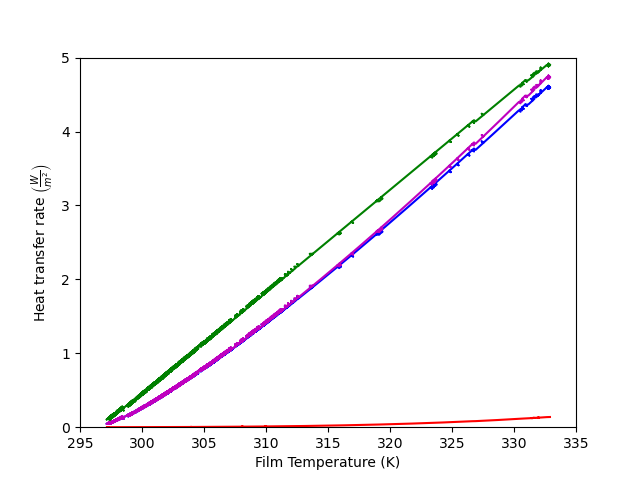
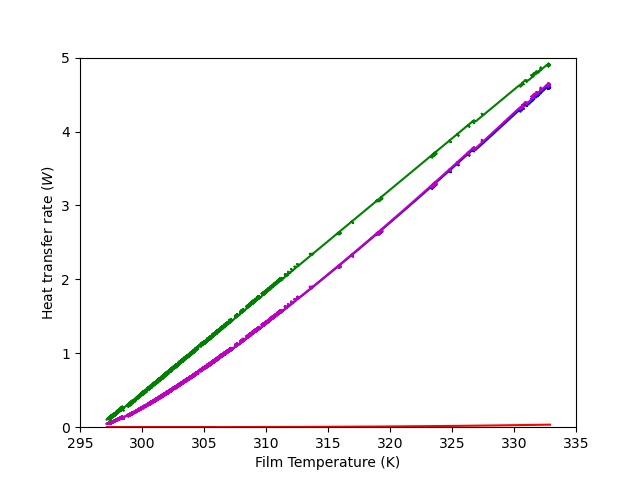
updated emissivity values

diff --git a/Lab2/DataAnalysis.py b/Lab2/DataAnalysis.py
@@ -31,16 +31,17 @@ thermalConductivityCuBlk = 401 # W/m*K
 thermalConductivityCuGld = 401 # W/m*K
 thermalConductivityRubber = 0.16 # W/m*K
 
-emissitivity = 0.03
+emissitivityCuBlk = 0.98
+emissitivityCuGld = 0.03
 
 sigma = 5.670374419e-8 # W/(m^2 * K^4)
 
 # Loading in Data
-Files = [x for x in listdir('Lab 2') if '.csv' in x]
+Files = [x for x in listdir('Lab2') if '.csv' in x]
 
 Data = {x:{} for x in Files}
 for File in Files:
-    Data[File] = pd.read_csv(f'Lab 2\\{File}')
+    Data[File] = pd.read_csv(f'Lab2\\{File}')
 
 # Index
 # 0 = CopperBlack
@@ -184,11 +185,11 @@ Data[Files[1]]['Convective coefficient'] = Data[Files[0]]['Nusselt Number']*Data
 
 # Calculate convective heat transfer
 Data[Files[0]]['Convective HT'] = Data[Files[0]]['Convective coefficient']*surfaceAreaCuBlk*(Data[Files[0]]['specimen']-Data[Files[0]]['air'])
-Data[Files[1]]['Convective HT'] = Data[Files[1]]['Convective coefficient']*surfaceAreaCuBlk*(Data[Files[1]]['specimen']-Data[Files[1]]['air'])
+Data[Files[1]]['Convective HT'] = Data[Files[1]]['Convective coefficient']*surfaceAreaCuGld*(Data[Files[1]]['specimen']-Data[Files[1]]['air'])
 
 # Calculate radiative heat transfer
-Data[Files[0]]['Radiative HT'] = emissitivity*sigma*(Data[Files[0]]['specimen']**4 - Data[Files[0]]['air']**4)
-Data[Files[1]]['Radiative HT'] = emissitivity*sigma*(Data[Files[1]]['specimen']**4 - Data[Files[1]]['air']**4)
+Data[Files[0]]['Radiative HT'] = emissitivityCuBlk*sigma*surfaceAreaCuBlk*(Data[Files[0]]['specimen']**4 - Data[Files[0]]['air']**4)
+Data[Files[1]]['Radiative HT'] = emissitivityCuGld*sigma*surfaceAreaCuGld*(Data[Files[1]]['specimen']**4 - Data[Files[1]]['air']**4)
 
 # Calculate total heat transfer using sum of components
 Data[Files[0]]['Sum HT'] = Data[Files[0]]['Convective HT'] + Data[Files[0]]['Radiative HT']
@@ -221,7 +222,7 @@ plt.plot(Data[Files[0]]['Film Temperature'],Data[Files[0]]['Effective HT'],'g')
 plt.xlim([295,335])
 plt.ylim([0,5])
 plt.xlabel('Film Temperature (K)')
-plt.ylabel(r'Heat transfer rate $\left(\frac{W}{m^2}\right)$')
+plt.ylabel(r'Heat transfer rate $\left(W\right)$')
 
 plt.figure(10)
 plt.plot(Data[Files[1]]['Film Temperature'],Data[Files[1]]['Convective HT'],'b')
@@ -231,6 +232,6 @@ plt.plot(Data[Files[1]]['Film Temperature'],Data[Files[1]]['Effective HT'],'g')
 plt.xlim([295,335])
 plt.ylim([0,5])
 plt.xlabel('Film Temperature (K)')
-plt.ylabel(r'Heat transfer rate $\left(\frac{W}{m^2}\right)$')
+plt.ylabel(r'Heat transfer rate $\left(W\right)$')
 
-plt.show()
+# plt.show()
